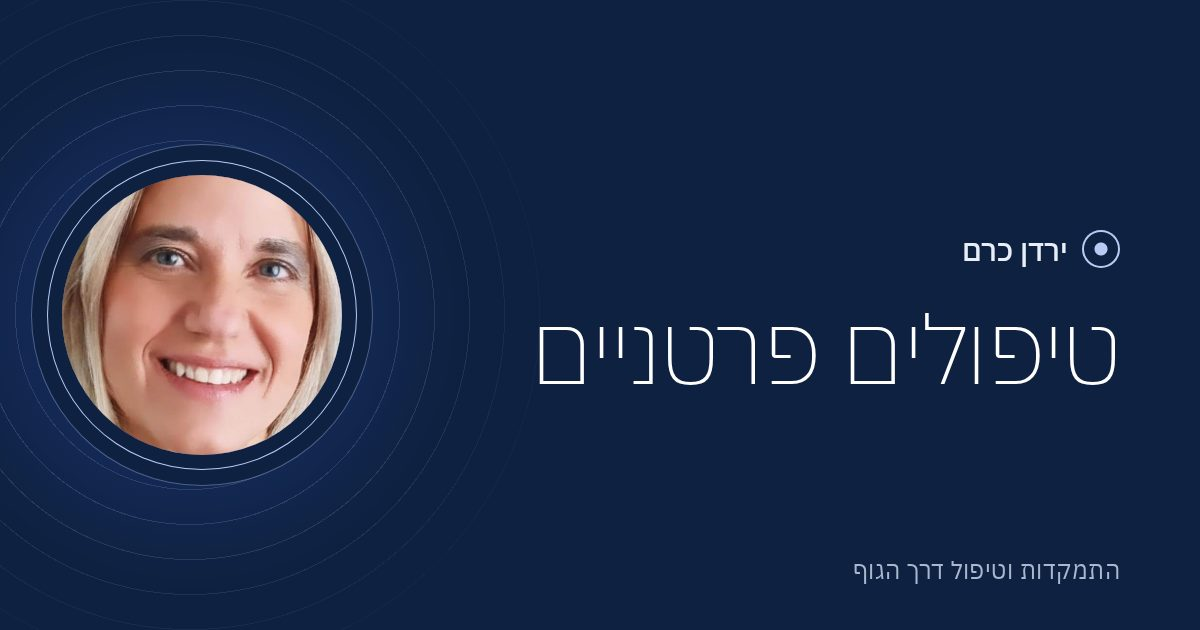
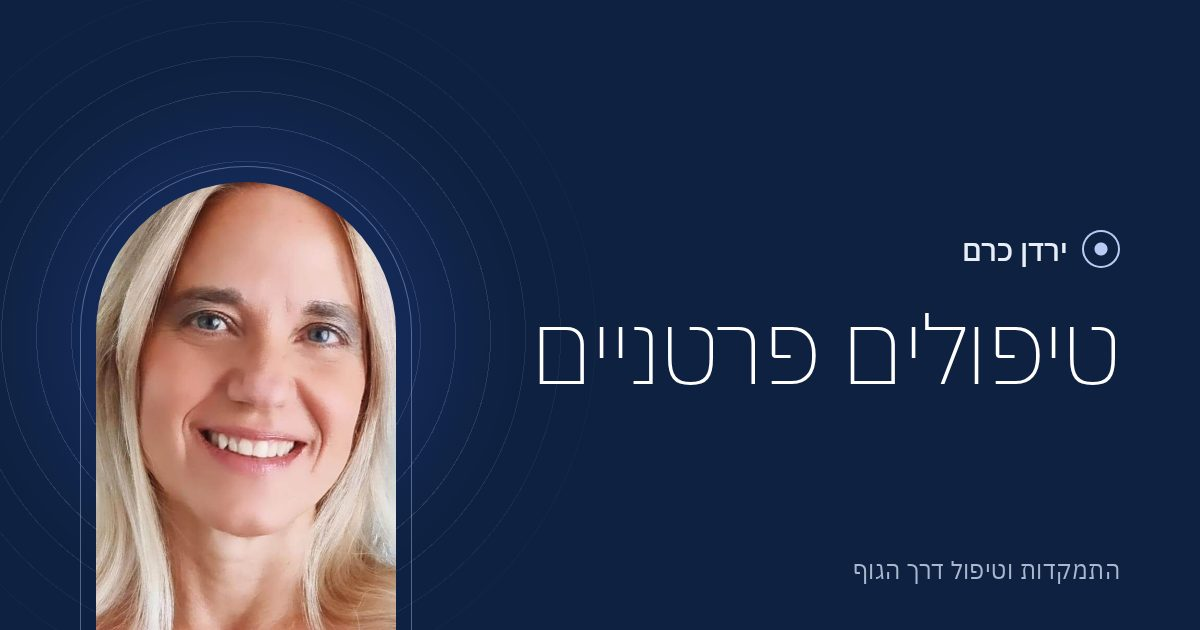
Yarden's photo as an arch window instead of a tight circle
The original photo is a close-up, so any circle reads as an avatar. A tall
crop (yarden-arch.jpg, from the original, no metadata) now sits in an arch:

- Home and podcast heroes: split layout, the words and buttons on one side,
  the arch standing on the panel's lower edge on the other, with the lens
  rings breathing out from her. Phones: a smaller arch above the title.
- About: the arch under the heading.
- Share images for the photo pages use the same arch.

Delivered as content updates (2026-10-home2, about2, podcast2), applied once
on start, after the earlier versions.

Claude-Session: https://claude.ai/code/session_014A9Rt8sVo3QZg3Ea7hN3fG

Changed region(s): [[0.0308, 0.2111, 0.3392, 1.0]]

diff --git a/web/content/updates/2026-10-home2.body.html b/web/content/updates/2026-10-home2.body.html
@@ -1,0 +1,153 @@
+<section class="hero hero--split">
+  <div class="wrap hero__grid">
+    <div class="hero__text">
+      <h1><span>להקשיב פנימה.</span><span>לזוז החוצה.</span></h1>
+      <p class="lead">מה שדיברת עליו שנים, הגוף שלך כבר יודע. טיפול אישי וקורסים בגישת ההתמקדות, עם ירדן כרם.</p>
+      <p class="hero__place">מטפלת דרך מיינדפולנס והקשבה לחוויה הסומאטית:<br>התמקדות, הקומי, S.E. קליניקה בהרצליה, ומפגשים בזום.</p>
+      <div class="actions">
+        <a class="btn" href="#contact" data-product="therapy">קביעת פגישת טיפול</a>
+        <a class="btn btn--line" href="/קורסים/" data-product="course">הרשמה לקורס</a>
+      </div>
+    </div>
+    <figure class="arch hero__arch"><img src="/assets/yarden-arch.jpg" alt="ירדן כרם" width="576" height="860" fetchpriority="high" decoding="async"></figure>
+  </div>
+</section>
+
+<section class="section" style="padding-top:0" aria-label="שתי דרכים להתחיל">
+  <div class="wrap">
+    <div class="ways">
+      <article class="way way--ink">
+        <p class="way__kind">פגישה שבועית, בהרצליה או בזום</p>
+        <h2>טיפול אישי</h2>
+        <dl>
+          <div><dt>למי זה מתאים</dt><dd>למי שמחפשת ליווי אישי צמוד ועבודת עומק על כאב ספציפי, טראומה מורכבת או דפוסים שקשה לשחרר לבד.</dd></div>
+          <div><dt>מה קורה במפגש</dt><dd>שעה של הקשבה ל־Felt Sense שלך, במרחב בטוח ותומך, שבו אפשר לפרק בעדינות את מה שתקוע וליצור תנועה פנימית אמיתית.</dd></div>
+        </dl>
+        <div class="actions">
+          <a class="btn btn--paper" href="#contact" data-product="therapy">קביעת פגישת טיפול</a>
+          <a class="btn btn--line-light" href="/טיפולים-פרטניים/">על שיטות הטיפול</a>
+        </div>
+      </article>
+      <article class="way way--mist">
+        <p class="way__kind">קורס שנתי, אונליין או פרונטלי</p>
+        <h2>קורס התמקדות</h2>
+        <dl>
+          <div><dt>למי זה מתאים</dt><dd>למי שרוצה ללמוד את שפת הגוף לעומק: להתפתחות אישית, כקורס שנתי למתחילים או כהשלמה מקצועית למטפלים.</dd></div>
+          <div><dt>מה לומדים</dt><dd>את יסודות גישת ההתמקדות, איך להנחות אדם אחר בתהליך, ואיך לפתח קשב פנימי שילווה אותך כל החיים.</dd></div>
+        </dl>
+        <div class="actions">
+          <a class="btn" href="/קורסים/" data-product="course">הרשמה לקורס</a>
+          <a class="btn btn--line" href="/קורסים/">סילבוס ומועדים</a>
+        </div>
+      </article>
+    </div>
+    <div class="also">
+      <p>דרכים נוספות</p>
+      <ul><li><a href="#contact"><b>The Focusing Shift</b><span>תכנית דיגיטלית של 90 יום: שיעורים מוקלטים, התמקדויות מודרכות ומפגשי זום קבוצתיים.</span></a></li><li><a href="/טראומה-מורכבת/"><b>קורס טראומה מתקדם</b><span>לימודי המשך למי שסיים שנה א' בהתמקדות: עבודה עם חלקי העצמי הפגיעים, התוקפים והמגינים.</span></a></li><li><a href="/פוקוסינג-לחיי-היום-יום/"><b>להתיידד עם הנמר</b><span>תכנית מקוונת לעבודה אישית, לשחרור ממצבי טראומה וחסימות.</span></a></li><li><a href="/פוטותרפיה/"><b>קורס פוטותרפיה</b><span>קורס למטפלים ולקהל הרחב במרכז גוף נפש ברמת השרון: צילום ככלי להכרת עצמי.</span></a></li></ul>
+    </div>
+  </div>
+</section>
+
+<section class="section section--mist">
+  <div class="wrap split">
+    <h2>כשהבנה לא הופכת לתנועה</h2>
+    <div class="body">
+      <p>ניסית כבר הרבה: טיפולי שיחה, סדנאות, מדיטציה, ספרים. צברת תובנות עמוקות, ובכל זאת משהו בפנים עדיין תקוע.</p>
+      <p>כשאנחנו תקועים, זה לרוב מפני שמערכת העצבים והגוף מחזיקים את הקושי בצורה פיזית, והבנה שכלית לבדה לא מזיזה חסימה שיושבת בגוף.</p>
+      <p>התמקדות היא לא עוד שיטה שמנסה לתקן אותך. זו דרך עדינה ומבוססת מחקר, שפיתח יוג'ין ג'נדלין, לפגוש את מה שחי בתוכך ולתת לגוף מרחב לדבר ולנוע בקצב שלו.</p>
+      <ul class="plain-list">
+        <li>התהליך ממוקד יותר, כי עובדים עם מפה ולא בתוך ערפל.</li>
+        <li>אפשר לעשות תהליך אישי קצר לאורך היום, גם בלי תלות באדם אחר.</li>
+        <li>מתפתחת עצמאות: היכולת להוביל את החיים מבפנים.</li>
+      </ul>
+    </div>
+  </div>
+</section>
+
+<section class="section">
+  <div class="wrap split">
+    <h2>למי מתאים הטיפול</h2>
+    <div class="body">
+      <p>הטיפול הפרטי מיועד לאנשים מבוגרים (החל מגיל ההתבגרות), מתפקדים, לרוב בריאים, רגישים ונבונים, שחווים את הבעיות של טווח החיים:</p>
+      <ul class="issue-list"><li>חרדות</li><li>התמכרויות</li><li>ביקורת פנימית</li><li>זיכרונות טורדניים</li><li>דכאונות</li><li>התמודדות עם טראומות</li><li>תחושה שלא מכיר את עצמי</li><li>הערכה עצמית נמוכה</li><li>תחושה של חוסר מימוש עצמי וחוסר סיפוק</li><li>קושי בקבלת החלטות</li><li>תקיעות – לא מצליח לעשות את מה שרוצה</li><li>ילדות קשה, בעייתית, לא מיטיבה</li><li>קשיים במערכות יחסים ובזוגיות, חוסר הצלחה במציאת בן זוג</li><li>התמודדות עם עניינים רגשיים / מנטליים מעורפלים ולא ברורים – אתה לא יודע מה "רודף" אותך</li><li>חסימה לפעולה – רוצים לעשות משהו אבל לא מצליחים לעשות אותו</li><li>ועוד – כל חוויה אנושית שהיא זקוקה להתבוננות ולהקשבה.</li></ul>
+    </div>
+  </div>
+</section>
+
+<section class="section section--ink" aria-label="מה אומרים מטופלים">
+  <span class="field" aria-hidden="true"></span>
+  <div class="wrap">
+    <!--yk:voices--><div class="voices" data-voices><figure class="voice"><blockquote>אחרי שנים של תקיעות ב&#x27;מתישהו&#x27;, מצאתי את האומץ לפתוח קליניקה משלי. זו לא רק עבודה, זו חופש אמיתי שהגיע מתוך תזוזה עמוקה בפנים.</blockquote><figcaption>מטופלת</figcaption></figure><figure class="voice" hidden><blockquote>הרגשתי לכודה בדפוסים ישנים, במיוחד במערכות יחסים. דרך ההקשבה לגוף הבנתי מה אני באמת מרגישה, ופתאום יכולתי להציב גבול ברור ששינה הכל.</blockquote><figcaption>מטופלת</figcaption></figure><figure class="voice" hidden><blockquote>הכאב היה כמו מפלצת שברחתי ממנה כל חיי. כשלמדתי לעצור ולהקשיב לו בעדינות דרך הגוף, הוא התכווץ והפך לחלק ממני. זוהי השלווה שחיפשתי.</blockquote><figcaption>מטופל</figcaption></figure></div>
+    <div class="voices__nav">
+      <button class="btn btn--line-light btn--sm" type="button" data-voices-next>המלצה הבאה</button>
+      <span class="voices__count" data-voices-count>1 מתוך 3</span><!--/yk:voices-->
+      <a href="/לקוחות-מספרים/">כל ההמלצות</a>
+    </div>
+  </div>
+</section>
+
+<section class="section">
+  <div class="wrap">
+    <h2 class="section__title">השיטות שאני עובדת איתן</h2>
+    <ul class="methods"><li><a href="/התמקדות/"><span class="methods__name">התמקדות</span><span class="methods__desc">הקשבה לתחושה המורגשת בגוף, ה־Felt Sense, שהיא השער לחוכמה הפנימית.</span></a></li><li><a href="/טיפול-בטראומה-2/"><span class="methods__name">Somatic Experiencing</span><span class="methods__desc">עבודה עם מערכת העצבים, כדי להשתחרר ממצבים שבהם הגוף עדיין מחזיק את הטראומה.</span></a></li><li><a href="/הקומי/"><span class="methods__name">הקומי</span><span class="methods__desc">בשפת ההופי הקומי פירושו how do we stand: מה היחסים שלנו עם כל ממדי הקיום.</span></a></li><li><a href="/גרינברג/"><span class="methods__name">טיפול במגע</span><span class="methods__desc">שיטות גרינברג ופאולה, גישות עדינות לעבודה עם טראומות התפתחותיות דרך הגוף הפיזי.</span></a></li><li><a href="/וידאו-תרפיה/"><span class="methods__name">וידאו תרפיה</span><span class="methods__desc">הקולנוע ככלי לספר את סיפור חיינו, לצפות בו ולראות אותו באור חדש.</span></a></li><li><a href="/פוטותרפיה/"><span class="methods__name">פוטותרפיה</span><span class="methods__desc">צילום כדרך להתבונן בעולם הפנימי, דרך מה שאנחנו בוחרים לראות.</span></a></li></ul>
+  </div>
+</section>
+
+<section class="section section--mist">
+  <div class="wrap about">
+    <div class="about__side">
+      <h2>אני כאן כדי ללמד הקשבה לגוף</h2>
+    </div>
+    <div class="body">
+      <p>אני מטפלת ומרצה כבר 30 שנה, מרצה בכירה לגישת ההתמקדות ולקורסים שעוסקים בטראומה. לימדתי יותר מ־750 תלמידים, ומאחוריי יותר מ־25,000 שעות טיפול.</p>
+      <p>בעלת תואר ראשון בפילוסופיה, תואר שני בקולנוע ובטיפול דרך הבעה ויצירה, ותואר שני בעבודה סוציאלית קלינית. מנהלת אקדמית ומרצה במרכז הישראלי לרפואת גוף נפש ברמת השרון, ומגישה את הפודקאסט "פוקוסינג עם ירדן כרם".</p>
+      <ul class="stats">
+        <li><b>30</b><span>שנות טיפול והוראה</span></li>
+        <li><b>750+</b><span>תלמידים בקורסים</span></li>
+        <li><b>25,000+</b><span>שעות טיפול</span></li>
+      </ul>
+      <div class="vision"><p>✨החזון שלי</p><p>אני רוצה לחולל תנועה תרבותית חדשה, שבה <strong>הקשבה פנימה</strong> היא לא רק כלי טיפולי, אלא שפה שאנשים מדברים בה ביום־יום.<br>אני רוצה שיותר ויותר אנשים ילמדו להקשיב מתוך ה־felt sense, ויידעו איך לפגוש אחד את השני, לא דרך הסברים או שכנועים<br>אלא דרך הקשבה שקטה למה שהגוף יודע.<br>בעיניי  ריפוי לא שייך רק למטפלים<br>ריפוי קורה כששני בני אדם לומדים לשהות יחד עם התחושה הפנימית ולתת לה מקום לנוע, להתרכך, להתגלות.<br>זו התרבות שאני רוצה לראות בעולם:<br>תרבות שבה שיחה אמיתית לא מתחילה רק בראש, אלא יודעת גם לשלב את החוכמה שיש בגוף.</p></div>
+      <blockquote class="epigraph"><p>לחיות הוא אחד הדברים הנדירים ביותר, רוב האנשים פשוט קיימים בואו לחיות</p><cite>אוסקר ויילד</cite></blockquote>
+      <p><a class="more" href="/אודות/">עוד עליי</a></p>
+    </div>
+  </div>
+</section>
+
+<section class="section">
+  <div class="wrap media-split">
+    <div class="podcard">
+      <span class="field" aria-hidden="true"></span>
+      <h2 class="podmark"><span>פוקוסינג</span><span>עם ירדן כרם</span></h2>
+      <p class="podcard__lead">הפודקאסט: הסברים, סשנים מוקלטים ושיחות עם אורחים.</p>
+      <div class="episode"><div class="video" data-yt="1jbUwFVDHcM"><button type="button" class="video__play" aria-label="הפעלת סרטון: פרק 13: שיחה עם אשרת קוטלר" style="background-image:url(https://i.ytimg.com/vi/1jbUwFVDHcM/hqdefault.jpg)"><span class="video__icon" aria-hidden="true"></span></button></div><p>פרק 13: שיחה עם אשרת קוטלר</p></div><div class="episode"><div class="video" data-yt="XHTzIAGLnHI"><button type="button" class="video__play" aria-label="הפעלת סרטון: פרק שנים עשר - איך להבין את הדברים עד הסוף - סשן עם איריס גולדפינגר" style="background-image:url(https://i.ytimg.com/vi/XHTzIAGLnHI/hqdefault.jpg)"><span class="video__icon" aria-hidden="true"></span></button></div><p>פרק שנים עשר - איך להבין את הדברים עד הסוף - סשן עם איריס גולדפינגר</p></div>
+      <div class="actions"><a class="btn btn--paper btn--sm" href="https://open.spotify.com/show/1PdEltqdiPKR4aGi3efIDc" target="_blank" rel="noopener">להאזנה בספוטיפיי</a><a class="btn btn--line-light btn--sm" href="/פודקאסט/">כל הפרקים</a></div>
+    </div>
+    <div>
+      <h2>לקרוא: מאמרים</h2>
+      <!--yk:essays--><ul class="entries entries--single"><li><a href="/פילוסופיית-המובלע-של-יוגין-גנדלין-מפ/"><h3>פילוסופיית המובלע של יוג&#x27;ין ג&#x27;נדלין - מפתח גישת ההתמקדות</h3><p>פילוסופיית המובלע &quot;I shall lay out some terms as if they came out of nowhere&quot;. כך נפתח Process Model , ספרו הפילוסופי המרכזי של ג&#x27;נדלין.…</p><small>21 בדצמבר 2019</small></a></li><li><a href="/הפילוסופיה-של-השפה-לפי-יוגין-גנדלין-מ/"><h3>הפילוסופיה של השפה לפי יוג&#x27;ין ג&#x27;נדלין - מפתח גישת ההתמקדות</h3><p>באמצעות המודל הפילוסופי שלו מנסה ג&#x27;נדלין להציע דרכי חשיבה, רעיונות ואוצר מילים חדש, שדרכם אפשר להראות כי יש בשפה יותר מהגדרות מקובעות…</p><small>16 בנובמבר 2019</small></a></li><li><a href="/סקירת-ספרות-והיבטים-טיפוליים-בטראומה-10/"><h3>סקירת ספרות והיבטים טיפוליים בטראומה על רקע פגיעה מינית - מאמר 10</h3><p>הפרעת זהות דיסוציאטיבית: במאמרים הקודמים דברנו על הצורך ביצירה של ביטחון ועל הצורך לספר את סיפור הטראומה, נשיאת העדות כמהלך משמעותי בטיפול.…</p><small>5 באוקטובר 2019</small></a></li><li><a href="/סקירת-ספרות-והיבטים-טיפוליים-בטראומה-9/"><h3>סקירת ספרות והיבטים טיפוליים בטראומה על רקע פגיעה מינית – מאמר 9</h3><p>מאמר זה יעסוק בנושא האבל על אובדן טראומטי. כדי למקם אותנו, אזכיר כי ג&#x27;ודית לואיס הרמן כותבת על תהליך ההחלמה כתהליך שמורכב משלושה חלקים:…</p><small>5 באוקטובר 2019</small></a></li><li><a href="/סקירת-ספרות-והיבטים-טיפוליים-בטראומה-8/"><h3>סקירת ספרות והיבטים טיפוליים בטראומה על רקע פגיעה מינית - מאמר 8</h3><p>על חשיבותה של נשיאת העדות: במאמר הקודם דברנו על ההכרח שיש בלספר את סיפור הטראומה. החלמה לא יכולה &quot;לדלג&quot; על השלב הזה. צביה זליגמן, שעובדת עם…</p><small>2 בספטמבר 2019</small></a></li></ul><!--/yk:essays-->
+      <p style="margin-top:24px"><a class="more" href="/מאמרים-שאני-כתבתי/">כל המאמרים</a></p>
+    </div>
+  </div>
+</section>
+<section class="section section--mist">
+  <div class="wrap">
+    <h2 class="section__title">לצפות</h2>
+    <div class="video-grid"><div class="video" data-yt="txW53qhZ6Ok"><button type="button" class="video__play" aria-label="הפעלת סרטון: סרטון" style="background-image:url(https://i.ytimg.com/vi/txW53qhZ6Ok/hqdefault.jpg)"><span class="video__icon" aria-hidden="true"></span></button></div><div class="video" data-yt="trLpSIkcVmc"><button type="button" class="video__play" aria-label="הפעלת סרטון: סרטון" style="background-image:url(https://i.ytimg.com/vi/trLpSIkcVmc/hqdefault.jpg)"><span class="video__icon" aria-hidden="true"></span></button></div><div class="video" data-yt="C7r8iBhoyTI"><button type="button" class="video__play" aria-label="הפעלת סרטון: סרטון" style="background-image:url(https://i.ytimg.com/vi/C7r8iBhoyTI/hqdefault.jpg)"><span class="video__icon" aria-hidden="true"></span></button></div><div class="video" data-yt="Thvaujlh9tQ"><button type="button" class="video__play" aria-label="הפעלת סרטון: סרטון" style="background-image:url(https://i.ytimg.com/vi/Thvaujlh9tQ/hqdefault.jpg)"><span class="video__icon" aria-hidden="true"></span></button></div><div class="video" data-yt="V0hDqWMbiZ8"><button type="button" class="video__play" aria-label="הפעלת סרטון: סרטון" style="background-image:url(https://i.ytimg.com/vi/V0hDqWMbiZ8/hqdefault.jpg)"><span class="video__icon" aria-hidden="true"></span></button></div></div>
+  </div>
+</section>
+
+<section class="section section--ink block--contact" id="contact">
+  <div class="wrap contact">
+    <div>
+      <h2>איפה להתחיל?</h2>
+      <p class="quiet">לבחירתך הדרך שמדברת אל ליבך. השאירו פרטים ואחזור אליכם לשיחת היכרות קצרה, או פנו ישירות.</p>
+      <dl class="contact-lines">
+        <dt>טלפון</dt><dd><a href="tel:+972544250910" dir="ltr">054-4250910</a></dd>
+        <dt>מייל</dt><dd><a href="mailto:yardenkerem@gmail.com">yardenkerem@gmail.com</a></dd>
+        <dt>איפה</dt><dd>קליניקה בהרצליה, ומפגשים בזום</dd>
+      </dl>
+      <div class="social"><a href="https://www.youtube.com/@yardenkerem5297" target="_blank" rel="noopener"><svg viewBox="0 0 24 24" aria-hidden="true"><path d="M23 7.2a3 3 0 0 0-2.1-2.1C19 4.6 12 4.6 12 4.6s-7 0-8.9.5A3 3 0 0 0 1 7.2 31 31 0 0 0 .5 12a31 31 0 0 0 .5 4.8 3 3 0 0 0 2.1 2.1c1.9.5 8.9.5 8.9.5s7 0 8.9-.5a3 3 0 0 0 2.1-2.1 31 31 0 0 0 .5-4.8 31 31 0 0 0-.5-4.8ZM9.7 15V9l5.8 3-5.8 3Z"/></svg>יוטיוב</a><a href="https://www.facebook.com/somatictherapyandfocusing/" target="_blank" rel="noopener"><svg viewBox="0 0 24 24" aria-hidden="true"><path d="M14 8.5V6.6c0-.9.6-1.1 1-1.1h2.6V1.6L14 1.5c-4 0-4.9 3-4.9 4.9v2.1H6.8v4h2.3v10h4.9v-10h3.3l.4-4H14Z"/></svg>פייסבוק</a><a href="https://www.instagram.com/yarden_kerem/" target="_blank" rel="noopener"><svg viewBox="0 0 24 24" aria-hidden="true"><path d="M12 7a5 5 0 1 0 0 10 5 5 0 0 0 0-10Zm0 8.2a3.2 3.2 0 1 1 0-6.4 3.2 3.2 0 0 1 0 6.4ZM17.3 5.5a1.2 1.2 0 1 0 0 2.4 1.2 1.2 0 0 0 0-2.4ZM12 2.2c-2.7 0-3 0-4.1.1C4.2 2.4 2.4 4.2 2.3 7.9 2.2 9 2.2 9.3 2.2 12s0 3 .1 4.1c.1 3.7 1.9 5.5 5.6 5.6 1.1.1 1.4.1 4.1.1s3 0 4.1-.1c3.7-.1 5.5-1.9 5.6-5.6.1-1.1.1-1.4.1-4.1s0-3-.1-4.1c-.1-3.7-1.9-5.5-5.6-5.6-1.1-.1-1.4-.1-4.1-.1Zm0 1.8c2.7 0 3 0 4 .1 2.7.1 3.9 1.4 4 4 .1 1 .1 1.3.1 3.9s0 3-.1 4c-.1 2.6-1.3 3.9-4 4-1 .1-1.3.1-4 .1s-3 0-4-.1c-2.7-.1-3.9-1.4-4-4-.1-1-.1-1.3-.1-4s0-2.9.1-3.9c.1-2.6 1.3-3.9 4-4 1 0 1.3-.1 4-.1Z"/></svg>אינסטגרם</a><a href="https://open.spotify.com/show/1PdEltqdiPKR4aGi3efIDc" target="_blank" rel="noopener"><svg viewBox="0 0 24 24" aria-hidden="true"><path d="M12 1.5a10.5 10.5 0 1 0 0 21 10.5 10.5 0 0 0 0-21Zm4.8 15.2a.7.7 0 0 1-.9.2c-2.5-1.5-5.6-1.8-9.3-1a.7.7 0 1 1-.3-1.3c4-.9 7.5-.5 10.3 1.2.3.2.4.6.2.9Zm1.3-2.9a.8.8 0 0 1-1.1.3c-2.8-1.7-7.2-2.2-10.5-1.2a.8.8 0 1 1-.5-1.6c3.8-1.1 8.6-.6 11.8 1.4.4.3.5.8.3 1.1Zm.1-3c-3.4-2-9-2.2-12.2-1.2a1 1 0 1 1-.6-1.8c3.7-1.1 9.9-.9 13.8 1.4a1 1 0 0 1-1 1.6Z"/></svg>ספוטיפיי</a><a href="https://www.linkedin.com/in/yarden-kerem/" target="_blank" rel="noopener"><svg viewBox="0 0 24 24" aria-hidden="true"><path d="M4.98 3.5a2.5 2.5 0 1 1 0 5 2.5 2.5 0 0 1 0-5ZM3 9.8h4V21H3V9.8Zm6.5 0h3.8v1.5h.1c.5-1 1.8-2 3.8-2 4 0 4.8 2.6 4.8 6V21h-4v-5c0-1.2 0-2.8-1.7-2.8s-2 1.3-2 2.7V21h-4V9.8Z"/></svg>לינקדאין</a><a href="https://www.tiktok.com/@yarden.kerem" target="_blank" rel="noopener"><svg viewBox="0 0 24 24" aria-hidden="true"><path d="M16.6 2h-3.4v13.4a2.9 2.9 0 1 1-2.9-2.9c.3 0 .6 0 .9.1V9.1a6.3 6.3 0 1 0 5.4 6.3V8.6a7.9 7.9 0 0 0 4.6 1.5V6.7a4.6 4.6 0 0 1-4.6-4.7Z"/></svg>טיקטוק</a></div>
+    </div>
+    <form class="form" data-form="contact"><input type="hidden" name="product" value=""><label>שם מלא<input type="text" name="name" required autocomplete="name"></label><label>טלפון<input type="tel" name="phone" autocomplete="tel" inputmode="tel"></label><label class="form__full">דוא"ל<input type="email" name="email" autocomplete="email"></label><label class="form__full">במה אוכל לעזור?<textarea name="message" rows="4"></textarea></label><p class="form__consent">הפרטים משמשים רק כדי לחזור אליך. <a href="/מדיניות-פרטיות/">מדיניות הפרטיות</a></p><div class="hp" aria-hidden="true"><label>אתר<input type="text" name="website" tabindex="-1" autocomplete="off"></label></div><button class="btn" type="submit">שליחה</button><p class="form__status" role="status"></p></form>
+  </div>
+</section>

diff --git a/web/content/updates/2026-10-about2.body.html b/web/content/updates/2026-10-about2.body.html
@@ -1,0 +1,108 @@
+<header class="page-hero"><div class="wrap">
+<h1>אודות</h1>
+<p class="page-hero__sub">שמי ירדן כרם, מטפלת ומרצה בכירה לגישת ההתמקדות. החזון והשליחות שלי הם שאנשים רבים יכירו את הגישה הזו.</p>
+</div></header>
+
+<section class="block" id="me"><div class="wrap">
+<div class="split">
+<div class="about__side">
+<h2 class="heading">קצת עליי</h2>
+<figure class="arch about__arch"><img src="/assets/yarden-arch.jpg" alt="ירדן כרם" width="576" height="860" loading="lazy" decoding="async"></figure>
+</div>
+<div class="prose prose--lead">
+<p>גישת ההתמקדות מפגישה אותנו עם ידע עמוק, רחב ומפתיע לגבי כל נושא ועניין בחיינו. זה ידע שנמצא בגוף, ברובד שבתחילה אינו מודע לנו. הידע שמגיע מהגוף מפתיע, מעניין מאוד ולוקח אותנו קדימה, לעבר שינוי.</p>
+<p>הפילוסופיה של ההתמקדות מהפכנית מאוד. היא טוענת שהאדם הוא המומחה הכי טוב למה שקורה בתוכו. והיא מציעה דרך מהפכנית לשינוי: כל מה שאנחנו צריכים הוא הקשבה עמוקה, מתוך סקרנות ועניין, למסרים שעולים מהגוף. לא צריך דבר נוסף בשביל שיהיה שינוי, ריפוי.</p>
+<p>ההתמקדות היא חוויה מכוננת, ובמהותה היא מטפלת במצבי טראומה.</p>
+<p>כל הגדרה או תיאור של העשייה שלי הם צמצום של מהות רחבה, של הנאה צרופה. ובכל זאת…</p>
+</div>
+</div>
+<div class="gallery">
+<figure><img src="/wp-content/uploads/2022/02/IMG-7732.jpg" alt="" loading="lazy" decoding="async"></figure>
+<figure><img src="/wp-content/uploads/2022/02/9.jpeg" alt="" loading="lazy" decoding="async"></figure>
+<figure><img src="/wp-content/uploads/2022/02/3.jpeg" alt="" loading="lazy" decoding="async"></figure>
+<figure><img src="/wp-content/uploads/2022/02/7.jpeg" alt="" loading="lazy" decoding="async"></figure>
+</div>
+</div></section>
+
+<section class="block block--tint" id="work"><div class="wrap">
+<h2 class="heading">איך אני עובדת</h2>
+<p class="section-intro">אני נפגשת עם אנשים לתהליכים אישיים, בזום או בקליניקה בהרצליה.</p>
+<ul class="facets">
+<li><h3>התמקדות (Focusing)</h3><p>הגישה שבלב העבודה שלי: הקשבה עמוקה לידע שעולה מהגוף. <a href="/התמקדות/">עוד על התמקדות</a></p></li>
+<li><h3>החוויה הגופנית (Somatic Experiencing)</h3><p>טיפול במצבים של טראומת שוק. <a href="/טיפול-בטראומה-2/">עוד על Somatic Experiencing</a></p></li>
+<li><h3>התקשרות וטראומה מורכבת</h3><p>טיפול בבעיות של התקשרות ובטראומה מורכבת. <a href="/טראומה-מורכבת/">עוד על טראומה מורכבת</a></p></li>
+<li><h3>מתיידדים עם הנמר</h3><p>אחרי 30 שנות עבודה והוראה יצרתי את התכנית "מתיידדים עם הנמר: פוקוסינג לשחרור מטראומות וחסמים אנושיים". התכנית זוכה להצלחה רבה. <a href="/פוקוסינג-לחיי-היום-יום/">על התכנית</a></p></li>
+</ul>
+</div></section>
+
+<section class="block" id="for-whom"><div class="wrap">
+<div class="split">
+<h2 class="heading">למי זה מתאים</h2>
+<div class="prose">
+<p>בקליניקה אני עובדת עם אנשים:</p>
+<ul>
+<li>שיש להם תחושה של פער בין המצב הקיים לבין האופן שבו הם רוצים לחיות את חייהם, בכל תחום ובכל רובד אנושי (רגשי, קוגניטיבי, גופני, רוחני, התנהגותי).</li>
+<li>שחווים חסימות, מצבים תקועים שחוזרים על עצמם לעייפה, ולא רוצים בזה יותר.</li>
+<li>שמוכנים לבוא לתהליך כדי להפסיק, לעצור או לשנות מצבים חסומים ותקועים.</li>
+<li>שיודעים שיש "רוחות רפאים" מן העבר שמונעות מהם להיות במיטבם בהווה.</li>
+<li>שיש להם עניינים לא פתורים מהעבר (unfinished business) שהגיע הזמן לטפל בהם.</li>
+<li>שמרגישים שיש בתוכם עוד הרבה יותר, ושלחיים יש עוד מה להציע להם.</li>
+</ul>
+<p>אני עובדת עם מבוגרים (מגיל ההתבגרות), מתפקדים, לרוב בריאים, רגישים ונבונים, שחווים את הבעיות של טווח החיים:</p>
+</div>
+</div>
+<ul class="chips">
+<li>חרדות</li><li>דיכאונות</li><li>התמודדות עם טראומות</li><li>חוסר מימוש עצמי וחוסר סיפוק</li><li>קשיים במערכות יחסים ובזוגיות</li><li>קושי במציאת בן או בת זוג</li><li>התמכרויות</li><li>זיכרונות טורדניים</li><li>ילדות קשה, לא מיטיבה</li><li>משהו לא ברור "רודף" אותך</li><li>ביקורת פנימית</li><li>קושי בקבלת החלטות</li><li>תקיעות: לא מצליחים לעשות את מה שרוצים</li><li>תחושה שאני לא מכיר את עצמי</li><li>הערכה עצמית נמוכה</li><li>כל חוויה אנושית שזקוקה להתבוננות ולהקשבה</li>
+</ul>
+</div></section>
+
+<section class="block block--tint" id="results"><div class="wrap">
+<h2 class="heading">מה משתנה בתהליך</h2>
+<ul class="facets">
+<li><h3>שחרור והקלה</h3><p>פרידה ושחרור ממה שחסם, הכאיב, פגע, הקשה, הפריע ותסכל.</p></li>
+<li><h3>מפגש עם העצמי</h3><p>מפגש נפלא עם העצמי האותנטי והאורגני, על כל שלל אפשרויותיו.</p></li>
+<li><h3>ערך עצמי</h3><p>לדעת את הערך שלי, ולהיות מסוגל להרגיש ולתקשר אותו בבהירות לעולם.</p></li>
+<li><h3>הנאה להיות מי שאני</h3><p>מפגש עם איכויות ויכולות שלא ידעתי שקיימות בי.</p></li>
+</ul>
+<blockquote class="callout">אני עובדת עם אנשים שמבינים שהזמן הנכון הוא עכשיו.</blockquote>
+</div></section>
+
+<section class="block" id="why"><div class="wrap">
+<h2 class="heading">למה להגיע אליי</h2>
+<p class="section-intro">לתהליך אישי, ללימודים, לקבוצה או להדרכה.</p>
+<ul class="facets">
+<li><h3>ניסיון והצלחה</h3><p>מאות מטופלים ותלמידים עברו אצלי ב־25 השנים האחרונות תהליך אישי משמעותי, שהביא לפריצות דרך בתחומים רבים בחייהם.</p></li>
+<li><h3>ידע רחב ועמוק</h3><p>בפסיכותרפיה חוויתית, פסיכותרפיה מבוססת מיינדפולנס, קשיבות לגוף ופסיכותרפיה שמשלבת גוף, נפש ורוח.</p></li>
+<li><h3>הקשבה עמוקה</h3><p>למטופלים, לתלמידים ולמשתתפי הקבוצה, מתוך עומק, רגישות וחשיבה. ואני יודעת ללמד כל אחד, מהר מאוד, להקשיב לעצמו ולהגיע להבנות ותובנות שלא היו שם קודם, שמביאות לשינוי משמעותי.</p></li>
+<li><h3>לא מוותרת</h3><p>באנו לעולם כדי להגשים את הפוטנציאל ואת המהות שלנו, ואין סיבה לוותר על זה או לעגל פינות.</p><p>זה לא קסם אלא תהליך, אם כי לא בהכרח ארוך. בכל סשן יש הבנות משמעותיות ותנועה קדימה. אין מפגש מבוזבז או "סתם נחמד".</p></li>
+<li><h3>העצמי האורגני</h3><p>אנחנו לא רק נפרדים מהבעיות, אלא לומדים להכיר, לטפח ולחיות דרך העצמי האורגני (The organic self): הבריא, המיטיב, היצירתי והשוקק חיים. לצד העיסוק בסבל יש מקום חשוב למפגש עם החלקים הבריאים בתוכנו.</p></li>
+</ul>
+<blockquote class="callout">אני אוהבת מאוד את מה שאני עושה, ולא קוראת לזה "עבודה".</blockquote>
+</div></section>
+
+<section class="block block--tint" id="path"><div class="wrap">
+<h2 class="heading">הדרך שלי</h2>
+<ol class="timeline">
+<li><span class="timeline__when">בעבר</span><p>וידאו תרפיה: בניתי את תכנית הלימודים לווידאו תרפיה בבית הספר "מעלה" בירושלים, ניהלתי את המרכז הטיפולי לווידאו תרפיה והפקתי כנסים רבים בנושא. טיפלתי גם בשיטות <a href="/גרינברג/">גרינברג</a> ו<a href="/שיטת-פאולה/">פאולה</a>.</p></li>
+<li><span class="timeline__when">2015</span><p>פרק על Felt Sensing Video Art Therapy בספר הראשון בנושא וידאו תרפיה (Routledge).</p></li>
+<li><span class="timeline__when">2023</span><p>פרק על הפקת סרט דוקומנטרי כתהליך טיפולי לנפגעי פגיעה מינית בילדות, בספר השני בנושא (Routledge).</p></li>
+<li><span class="timeline__when">היום</span><p>מנהלת אקדמית ומרצה במרכז הישראלי לרפואת גוף נפש ברמת השרון, בקורס התמקדות ובקורס פוטותרפיה. ובמקביל, תהליכים אישיים בזום ובקליניקה בהרצליה.</p></li>
+</ol>
+<p class="section-intro">השכלה אקדמית:</p>
+<ul class="chips">
+<li>B.A. בפילוסופיה ומחשבת ישראל, האוניברסיטה העברית בירושלים</li>
+<li>M.F.A. בקולנוע וטלוויזיה, אוניברסיטת תל אביב</li>
+<li>M.A. בטיפול בהבעה ויצירה, אוניברסיטת תל אביב</li>
+</ul>
+<figure class="citation">
+<blockquote dir="ltr"><p>Kerem Y. (2015), Felt Sensing Video Art Therapy, in Joshua L. Cohen, J. Lauren Johnson (editors), <i>Video and Filmmaking as Psychotherapy: Research and Practice</i> (pp. 257–287). U.S.A: Routledge.</p>
+<p>Kerem, Y. (2023). Producing a Documentary as a Therapeutic Process for Victims of Childhood Sexual Abuse. In Cohen, J. L., <i>Film/video-based therapy and trauma: Research and practice</i> (1st ed., Vol. 1, Ser. Advances in Mental Health Research, pp. 162–169). Routledge.</p></blockquote>
+<figcaption>יש לי תרומה חשובה לפיתוח של וידאו תרפיה, הקולנוע ככלי טיפולי וחינוכי. אני בין כותבי הספר הראשון והשני בנושא.</figcaption>
+</figure>
+<ul class="linkcards">
+<li><a class="linkcard linkcard--read" href="https://tinyurl.com/yb3a56wx" target="_blank" rel="noopener"><span class="linkcard__icon" aria-hidden="true"></span><span class="linkcard__title">פרטים על קורסי ההתמקדות</span><span class="linkcard__where">המרכז הישראלי לרפואת גוף נפש</span></a></li>
+<li><a class="linkcard linkcard--read" href="https://tinyurl.com/ycgjjvuk" target="_blank" rel="noopener"><span class="linkcard__icon" aria-hidden="true"></span><span class="linkcard__title">פרטים על קורס הפוטותרפיה</span><span class="linkcard__where">המרכז הישראלי לרפואת גוף נפש</span></a></li>
+<li><a class="linkcard linkcard--article" href="https://mindbody.co.il/%D7%94%D7%95%D7%99%D7%93%D7%90%D7%95-%D7%9B%D7%9B%D7%9C%D7%99-%D7%99%D7%A6%D7%99%D7%A8%D7%AA%D7%99-%D7%9C%D7%A9%D7%99%D7%A0%D7%95%D7%99/" target="_blank" rel="noopener"><span class="linkcard__icon" aria-hidden="true"></span><span class="linkcard__title">הווידאו ככלי יצירתי לשינוי</span><span class="linkcard__where">mindbody</span></a></li>
+<li><a class="linkcard linkcard--read" href="/וידאו-תרפיה/"><span class="linkcard__icon" aria-hidden="true"></span><span class="linkcard__title">וידאו תרפיה: המודלים שפיתחתי והסרטים שהפקתי</span><span class="linkcard__where">באתר</span></a></li>
+</ul>
+</div></section>

diff --git a/web/content/updates/2026-10-podcast2.body.html b/web/content/updates/2026-10-podcast2.body.html
@@ -1,0 +1,39 @@
+<header class="page-hero page-hero--split"><span class="field" aria-hidden="true"></span><div class="wrap hero__grid">
+<div class="hero__text">
+<h1 class="podmark"><span>פוקוסינג</span><span>עם ירדן כרם</span></h1>
+<p class="page-hero__sub">הפודקאסט על התמקדות ועל Somatic Experiencing: הסברים, סשנים מוקלטים ושיחות עם אורחים.</p>
+<div class="actions"><a class="btn btn--paper" href="https://open.spotify.com/show/1PdEltqdiPKR4aGi3efIDc" target="_blank" rel="noopener">להאזנה בספוטיפיי</a><a class="btn btn--line-light" href="https://www.youtube.com/@yardenkerem5297" target="_blank" rel="noopener">לערוץ היוטיוב</a></div>
+</div>
+<figure class="arch hero__arch"><img src="/assets/yarden-arch.jpg" alt="ירדן כרם" width="576" height="860" fetchpriority="high" decoding="async"></figure>
+</div></header>
+
+<section class="block" id="basics"><div class="wrap">
+<h2 class="heading">הגישה והכלים</h2>
+<div class="films">
+<figure class="film"><div class="video" data-yt="B_3e4aVowq4"><button type="button" class="video__play" aria-label="הפעלת סרטון: פרק 1, מהי גישת ההתמקדות (Focusing), ובמה היא יכולה לתרום לכל אחד" style="background-image:url(https://i.ytimg.com/vi/B_3e4aVowq4/hqdefault.jpg)"><span class="video__icon" aria-hidden="true"></span></button></div><figcaption><h3>מהי גישת ההתמקדות (Focusing), ובמה היא יכולה לתרום לכל אחד</h3><p>פרק 1</p></figcaption></figure>
+<figure class="film"><div class="video" data-yt="OIxfHsZ9CQE"><button type="button" class="video__play" aria-label="הפעלת סרטון: פרק 2, Somatic Experiencing: טיפול דרך הקשבה לתחושות הגוף במצבים של טראומת שוק" style="background-image:url(https://i.ytimg.com/vi/OIxfHsZ9CQE/hqdefault.jpg)"><span class="video__icon" aria-hidden="true"></span></button></div><figcaption><h3>Somatic Experiencing: טיפול דרך הקשבה לתחושות הגוף במצבים של טראומת שוק</h3><p>פרק 2</p></figcaption></figure>
+<figure class="film"><div class="video" data-yt="7vpLk1fitXs"><button type="button" class="video__play" aria-label="הפעלת סרטון: פרק 3, &quot;אני מאכזב&quot;, &quot;אני כישלון&quot;: קולות של ביקורת פנימית ומה עושים איתם" style="background-image:url(https://i.ytimg.com/vi/7vpLk1fitXs/hqdefault.jpg)"><span class="video__icon" aria-hidden="true"></span></button></div><figcaption><h3>"אני מאכזב", "אני כישלון": קולות של ביקורת פנימית ומה עושים איתם</h3><p>פרק 3</p></figcaption></figure>
+<figure class="film"><div class="video" data-yt="uz6SETPzGik"><button type="button" class="video__play" aria-label="הפעלת סרטון: פרק 4, פוקוסינג על מצבים חסומים" style="background-image:url(https://i.ytimg.com/vi/uz6SETPzGik/hqdefault.jpg)"><span class="video__icon" aria-hidden="true"></span></button></div><figcaption><h3>פוקוסינג על מצבים חסומים</h3><p>פרק 4</p></figcaption></figure>
+<figure class="film"><div class="video" data-yt="hia4MBUcJbk"><button type="button" class="video__play" aria-label="הפעלת סרטון: פרק 6, התמקדות אישית ופינוי המרחב לפי הגישה של יוג'ין ג'נדלין" style="background-image:url(https://i.ytimg.com/vi/hia4MBUcJbk/hqdefault.jpg)"><span class="video__icon" aria-hidden="true"></span></button></div><figcaption><h3>התמקדות אישית ופינוי המרחב לפי הגישה של יוג'ין ג'נדלין</h3><p>פרק 6</p></figcaption></figure>
+<figure class="film"><div class="video" data-yt="Qn1eYPBh2dw"><button type="button" class="video__play" aria-label="הפעלת סרטון: פרק 9, סולו פוקוסינג: התמקדות לפי הגישה של אן וייזר קורנל" style="background-image:url(https://i.ytimg.com/vi/Qn1eYPBh2dw/hqdefault.jpg)"><span class="video__icon" aria-hidden="true"></span></button></div><figcaption><h3>סולו פוקוסינג: התמקדות לפי הגישה של אן וייזר קורנל</h3><p>פרק 9</p></figcaption></figure>
+</div>
+</div></section>
+
+<section class="block block--tint" id="sessions"><div class="wrap">
+<h2 class="heading">סשנים</h2>
+<div class="films">
+<figure class="film"><div class="video" data-yt="drvg5u-YLPg"><button type="button" class="video__play" aria-label="הפעלת סרטון: פרק 7, סשן עם ברק סולימן: התמקדות על כאב גב" style="background-image:url(https://i.ytimg.com/vi/drvg5u-YLPg/hqdefault.jpg)"><span class="video__icon" aria-hidden="true"></span></button></div><figcaption><h3>סשן עם ברק סולימן: התמקדות על כאב גב</h3><p>פרק 7</p></figcaption></figure>
+<figure class="film"><div class="video" data-yt="XHTzIAGLnHI"><button type="button" class="video__play" aria-label="הפעלת סרטון: פרק 12, איך להבין את הדברים עד הסוף: סשן עם איריס גולדפינגר" style="background-image:url(https://i.ytimg.com/vi/XHTzIAGLnHI/hqdefault.jpg)"><span class="video__icon" aria-hidden="true"></span></button></div><figcaption><h3>איך להבין את הדברים עד הסוף: סשן עם איריס גולדפינגר</h3><p>פרק 12</p></figcaption></figure>
+</div>
+</div></section>
+
+<section class="block" id="talks"><div class="wrap">
+<h2 class="heading">שיחות</h2>
+<div class="films">
+<figure class="film"><div class="video" data-yt="Y63bPMH0OPY"><button type="button" class="video__play" aria-label="הפעלת סרטון: פרק 5, הילד הפנימי ופוקוסינג: שיחה עם חמוטל שפיצר גת" style="background-image:url(https://i.ytimg.com/vi/Y63bPMH0OPY/hqdefault.jpg)"><span class="video__icon" aria-hidden="true"></span></button></div><figcaption><h3>הילד הפנימי ופוקוסינג: שיחה עם חמוטל שפיצר גת</h3><p>פרק 5</p></figcaption></figure>
+<figure class="film"><div class="video" data-yt="3P2a5Cs8dA8"><button type="button" class="video__play" aria-label="הפעלת סרטון: פרק 8, שיחה על פוקוסינג, תובנות עמוקות, גלגולים ושקט עם יונתן סער" style="background-image:url(https://i.ytimg.com/vi/3P2a5Cs8dA8/hqdefault.jpg)"><span class="video__icon" aria-hidden="true"></span></button></div><figcaption><h3>שיחה על פוקוסינג, תובנות עמוקות, גלגולים ושקט עם יונתן סער</h3><p>פרק 8</p></figcaption></figure>
+<figure class="film"><div class="video" data-yt="wUosHxE6PzQ"><button type="button" class="video__play" aria-label="הפעלת סרטון: פרק 10, שיחה עם נטע פלג גינזבורג על מחול, ציידים־לקטים, תנועה, שפה והתמקדות" style="background-image:url(https://i.ytimg.com/vi/wUosHxE6PzQ/hqdefault.jpg)"><span class="video__icon" aria-hidden="true"></span></button></div><figcaption><h3>שיחה עם נטע פלג גינזבורג על מחול, ציידים־לקטים, תנועה, שפה והתמקדות</h3><p>פרק 10</p></figcaption></figure>
+<figure class="film"><div class="video" data-yt="0HLVAFoYXTE"><button type="button" class="video__play" aria-label="הפעלת סרטון: פרק 11, ההתמקדות היא יהלום נדיר: שיחה על הרטט המיוחד של ההתמקדות עם הילי זמיר" style="background-image:url(https://i.ytimg.com/vi/0HLVAFoYXTE/hqdefault.jpg)"><span class="video__icon" aria-hidden="true"></span></button></div><figcaption><h3>ההתמקדות היא יהלום נדיר: שיחה על הרטט המיוחד של ההתמקדות עם הילי זמיר</h3><p>פרק 11</p></figcaption></figure>
+<figure class="film"><div class="video" data-yt="1jbUwFVDHcM"><button type="button" class="video__play" aria-label="הפעלת סרטון: פרק 13, שיחה עם אשרת קוטלר" style="background-image:url(https://i.ytimg.com/vi/1jbUwFVDHcM/hqdefault.jpg)"><span class="video__icon" aria-hidden="true"></span></button></div><figcaption><h3>שיחה עם אשרת קוטלר</h3><p>פרק 13</p></figcaption></figure>
+</div>
+</div></section>

diff --git a/web/public/assets/style.css b/web/public/assets/style.css
@@ -228,6 +228,46 @@ strong, b { font-weight: 600; }
 .hero .btn--line:hover { background: var(--paper); color: var(--ink) !important; }
 @media (max-width: 860px) { .hero__foot { grid-template-columns: 1fr; } }
 
+/* Home hero, split: the words on one side and Yarden in an arch on the other,
+   standing on the panel's lower edge, with the lens breathing around her */
+.hero--split { padding-bottom: 0; }
+.hero--split::before { display: none; }
+.hero__grid { display: grid; grid-template-columns: minmax(0, 1fr) clamp(250px, 29vw, 420px); gap: clamp(32px, 6vw, 104px); align-items: end; }
+.hero__text { align-self: center; padding-bottom: clamp(56px, 8vw, 120px); }
+.hero--split h1 { font-size: clamp(3rem, .8rem + 5.6vw, 7.4rem); margin-bottom: clamp(24px, 3vw, 40px); }
+.hero__text .lead { margin: 0; max-width: 30em; color: var(--on-ink); }
+.hero__text .actions { margin-top: clamp(28px, 3.5vw, 44px); }
+
+/* The arch: Yarden's portrait as a window */
+.arch { position: relative; margin: 0; aspect-ratio: 576 / 860; }
+.arch img { display: block; width: 100%; height: 100%; object-fit: cover; border-radius: 999px 999px 0 0; background: var(--ink-2); }
+.arch::after { content: ""; position: absolute; inset: -16px -16px 0; border: 1px solid rgba(185, 203, 245, .32); border-bottom: 0; border-radius: 999px 999px 0 0; pointer-events: none; }
+.hero__arch img { animation: focus-in 2s .15s cubic-bezier(.2, .6, .1, 1) both; }
+.hero__arch::before {
+  content: ""; position: absolute; z-index: -1; left: 50%; top: 32%; width: 310%; aspect-ratio: 1; translate: -50% -50%; border-radius: 50%; pointer-events: none;
+  background: radial-gradient(circle, rgba(46, 87, 196, .5) 0, rgba(46, 87, 196, .16) 24%, transparent 50%), repeating-radial-gradient(circle, transparent 0 36px, rgba(185, 203, 245, .14) 36px 37px);
+  -webkit-mask-image: radial-gradient(circle, #000 36%, transparent 70%); mask-image: radial-gradient(circle, #000 36%, transparent 70%);
+  animation: breathe 11s ease-in-out infinite;
+}
+/* The same on a page hero (the podcast) */
+.page-hero--split { padding-bottom: 0; }
+.page-hero--split::before { display: none; }
+/* In the About section, on paper */
+.about__side:has(.about__arch) { gap: 20px; }
+.about__arch { width: min(100%, 300px); margin: 18px 16px 0; }
+.about__arch img { border-radius: 50% 50% 24px 24px / 33.5% 33.5% 24px 24px; }
+.about__arch::after { inset: -14px; border: 1px solid var(--halo); border-radius: 50% 50% 36px 36px / 34% 34% 36px 36px; }
+@media (max-width: 900px) { .about__arch { width: min(56vw, 230px); justify-self: center; margin: 22px 0 34px; } }
+@media (max-width: 760px) {
+  .hero--split, .page-hero--split { padding-bottom: 48px; }
+  .hero__grid { grid-template-columns: 1fr; gap: 0; }
+  .hero__text { padding-bottom: 0; }
+  .hero__arch { order: -1; justify-self: start; width: min(38vw, 156px); margin: 0 14px 30px; }
+  .hero__arch img { border-radius: 50% 50% 22px 22px / 33.5% 33.5% 22px 22px; }
+  .hero__arch::after { inset: -12px; border-bottom: 1px solid rgba(185, 203, 245, .32); border-radius: 50% 50% 32px 32px / 34% 34% 32px 32px; }
+  .hero__arch::before { width: 360%; top: 40%; }
+}
+
 /* Yarden, at the centre of the lens, coming into focus with the title */
 .portrait.hero__portrait {
   --pw: clamp(220px, 21vw, 320px);
@@ -825,7 +865,7 @@ img.is-missing, .figure.is-missing, .gallery figure.is-missing { display: none; 
 .whatsapp:hover { color: #fff; }
 
 @media (prefers-reduced-motion: reduce) {
-  .hero h1 span, .page-hero h1, .hero::before, .page-hero::before, .page-hero::after, .hero__portrait, .page-hero__portrait { animation: none; }
+  .hero h1 span, .page-hero h1, .hero::before, .page-hero::before, .page-hero::after, .hero__portrait, .page-hero__portrait, .arch img, .hero__arch::before { animation: none; }
   * { transition: none !important; }
 }
 @media print { .site-header, .whatsapp, .block--contact, .site-footer, .toc, .a11y-btn { display: none; } .hero, .page-hero { background: none; color: #000; } .page-hero h1, .hero h1 { color: #000; } }
@@ -881,7 +921,7 @@ html.a11y-contrast { --paper: #ffffff; --mist: #ffffff; --ink: #000000; --ink-so
 html.a11y-contrast .section--ink, html.a11y-contrast .way--ink, html.a11y-contrast .block--image, html.a11y-contrast .block--contact { background: #000 !important; }
 html.a11y-contrast .hero h1 span, html.a11y-contrast .page-hero h1 { animation: none; filter: none; opacity: 1; }
 html.a11y-contrast .hero, html.a11y-contrast .page-hero, html.a11y-contrast .citation, html.a11y-contrast .callout { background: #000 !important; }
-html.a11y-contrast .hero::before, html.a11y-contrast .page-hero::before { display: none; }
+html.a11y-contrast .hero::before, html.a11y-contrast .page-hero::before, html.a11y-contrast .hero__arch::before { display: none; }
 html.a11y-contrast :focus-visible { outline: 3px solid #ff8c00 !important; outline-offset: 3px; }
 html.a11y-contrast .actionbar { background: #fff; box-shadow: 0 -2px 0 #000; }
 html.a11y-contrast .actionbar__btn { border: 1px solid #000; }

diff --git a/README.md b/README.md
@@ -82,7 +82,10 @@ node --import ./test/register.mjs test/sanitize.test.mjs
 
 ## עיצוב: תמונות, איורים ותמונות שיתוף
 
-- **התמונה של ירדן:** `web/public/assets/yarden.jpg` (ריבועית, חתוכה סביב הפנים, בלי מטא־דאטה). מופיעה במרכז העדשה בראש דף הבית, בעמוד אודות ובתמונות השיתוף של דף הבית, אודות, טיפול אישי וצור קשר. אם הקובץ חסר מוצג במקומה סמל העדשה.
+- **התמונה של ירדן:** `web/public/assets/yarden-arch.jpg`, חיתוך גבוה מהתמונה המקורית, בלי מטא־דאטה. מוצגת בחלון בצורת קשת:
+  - בדף הבית ובעמוד הפודקאסט: ליד הטקסט, "עומדת" על הקצה התחתון של הפאנל הכהה, והטבעות יוצאות ממנה. במובייל היא מעל הכותרת.
+  - בעמוד אודות, ובתמונות השיתוף של דף הבית, אודות, טיפול אישי, צור קשר ופודקאסט.
+  - `yarden.jpg` (ריבועית) משמשת רק לתמונה הקטנה בבלוק "איפה להתחיל?".
 - **איורים:** `web/scripts/gen-art.mjs` מצייר את מוטיבי הקו (`public/assets/art/`), מוטיב לכל נושא. השיוך של עמוד לנושא נמצא ב־`web/lib/art.js`.
 - **תמונות שיתוף (og:image):** `node web/scripts/gen-og.mjs` מייצר תמונה 1200×630 לכל עמוד ולכל מאמר בלי תמונה משלו (`public/og/`). דורש Playwright, ולכן מריצים אותו במחשב פיתוח ומעלים את הקבצים לגיט.
 - **כותרות סרטונים:** `web/content/video-titles.json` (מתוך YouTube oEmbed). סרטון שהוסר מיוטיוב מוצג כהודעה במקום נגן.
